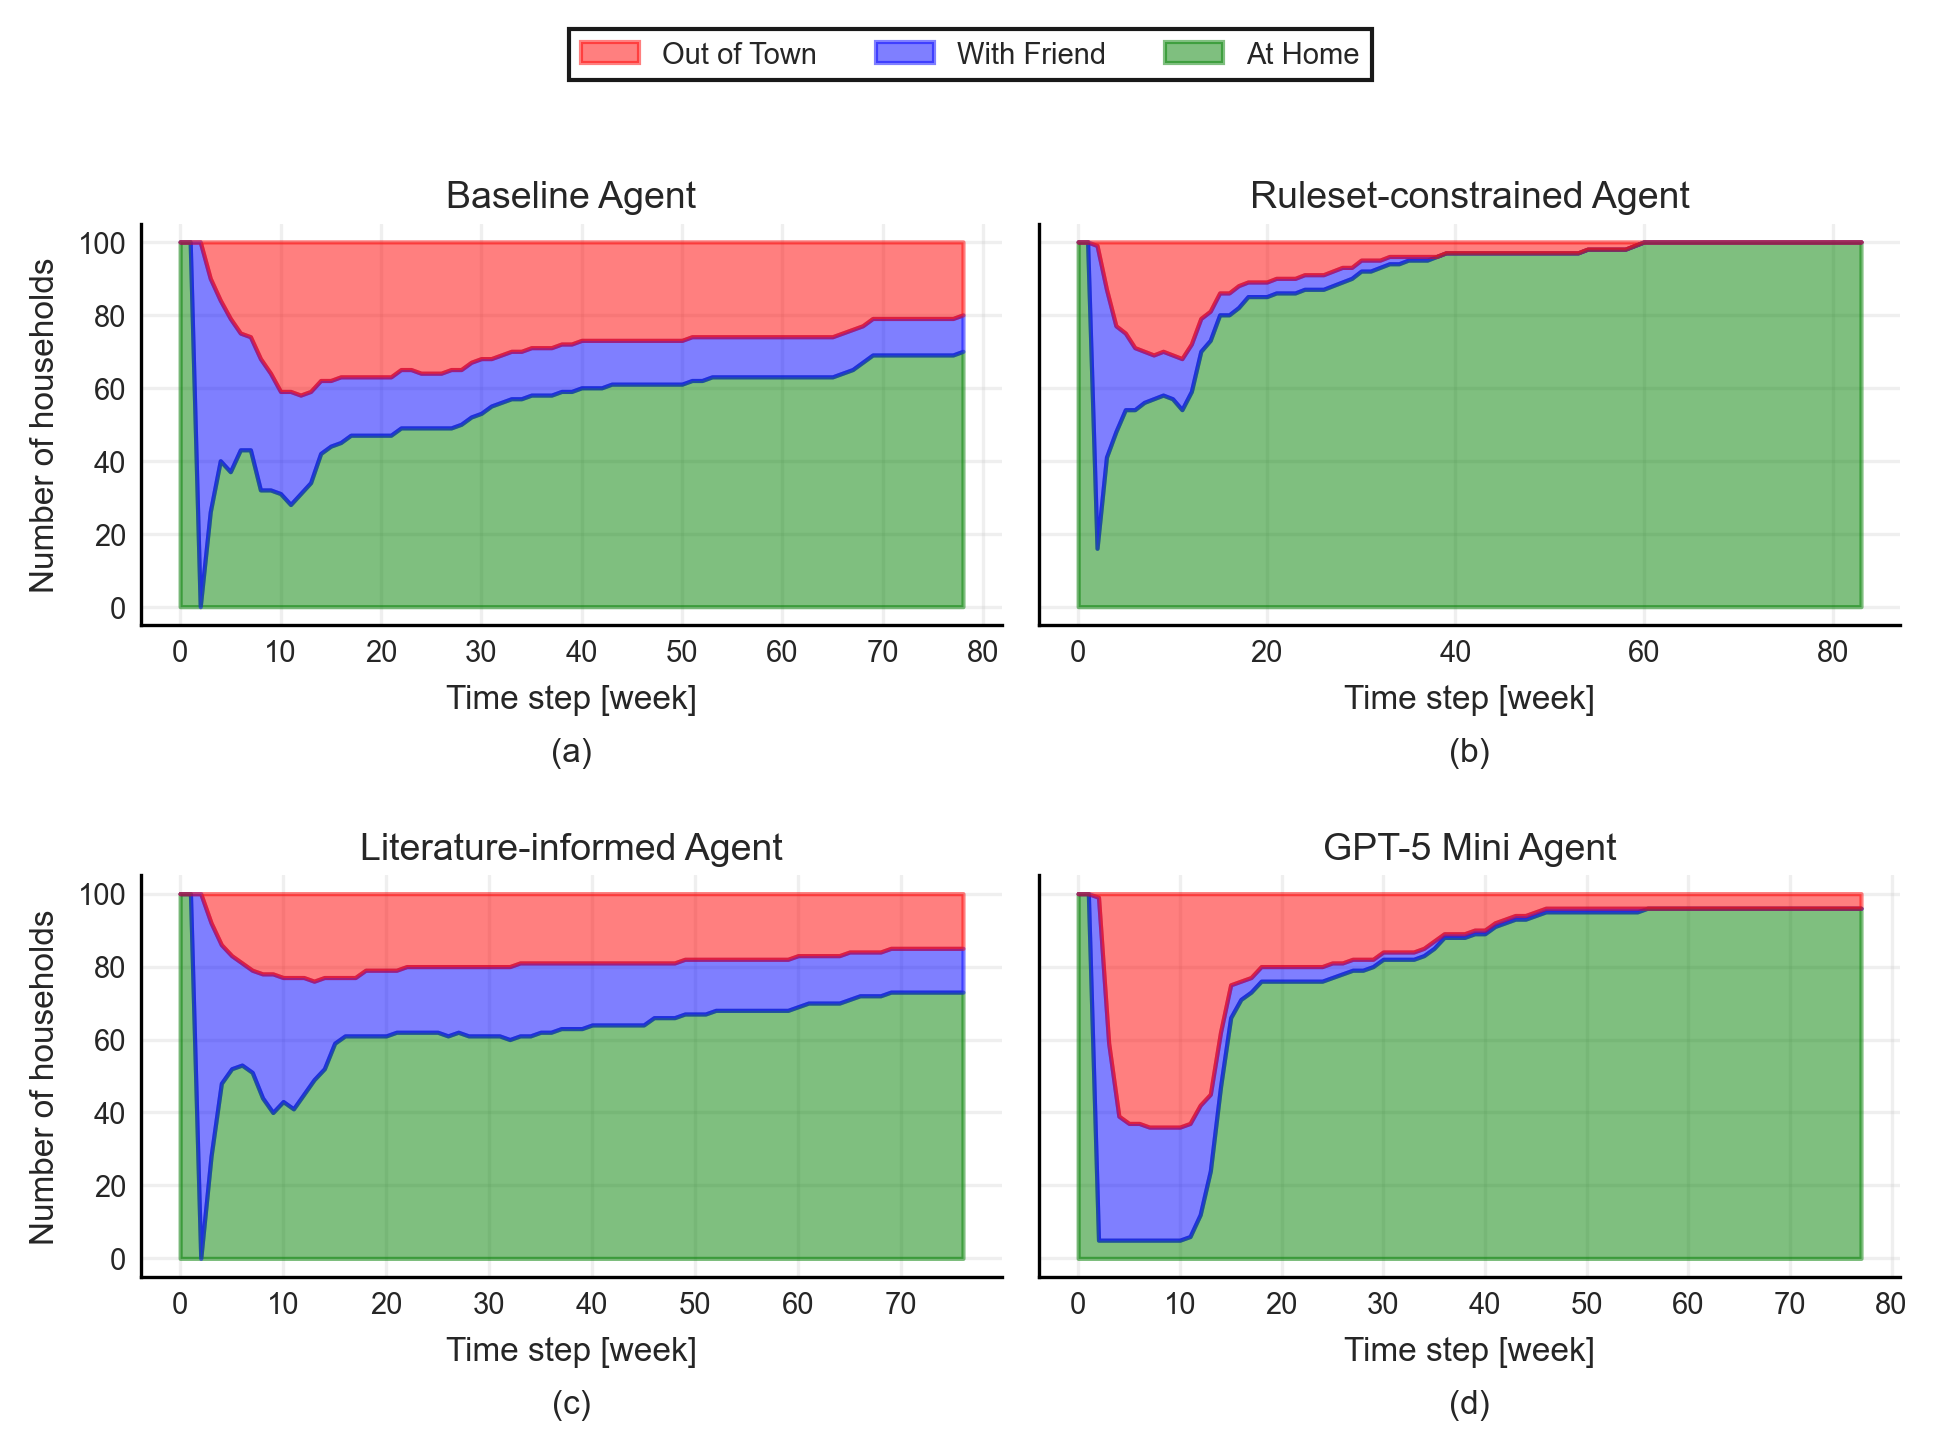
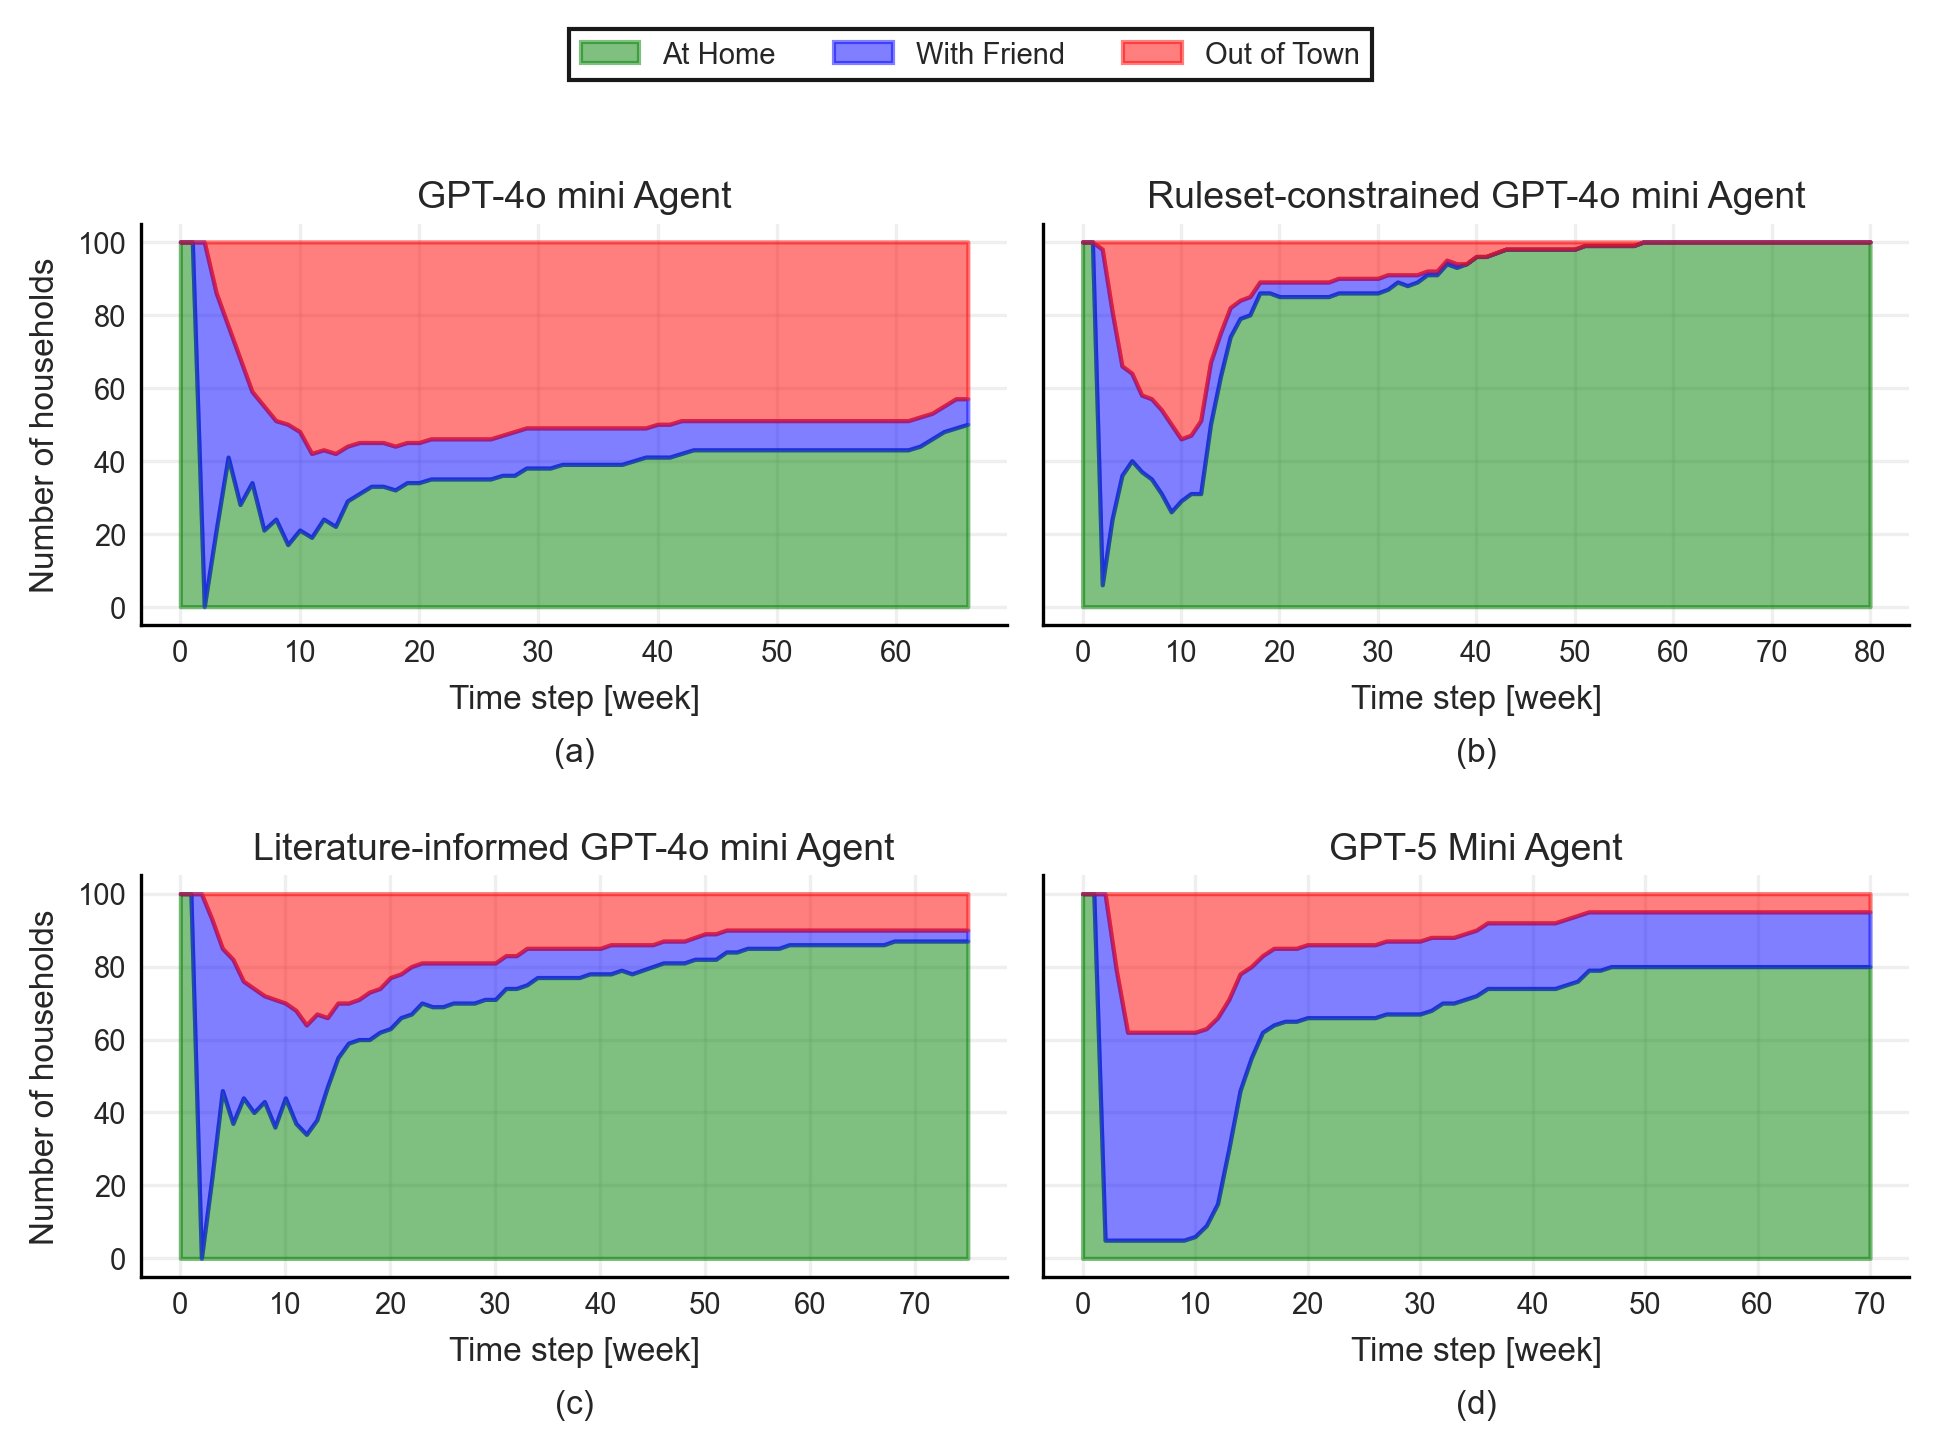
update webpage

diff --git a/docs/html/usage/how_to_cite.html b/docs/html/usage/how_to_cite.html
@@ -179,7 +179,7 @@
           <svg class="theme-icon-when-light"><use href="#svg-sun"></use></svg>
         </button>
       </div>
-      <label class="toc-overlay-icon toc-header-icon no-toc" for="__toc">
+      <label class="toc-overlay-icon toc-header-icon" for="__toc">
         <div class="visually-hidden">Toggle table of contents sidebar</div>
         <i class="icon"><svg><use href="#svg-toc"></use></svg></i>
       </label>
@@ -388,7 +388,7 @@
               <svg class="theme-icon-when-light"><use href="#svg-sun"></use></svg>
             </button>
           </div>
-          <label class="toc-overlay-icon toc-content-icon no-toc" for="__toc">
+          <label class="toc-overlay-icon toc-content-icon" for="__toc">
             <div class="visually-hidden">Toggle table of contents sidebar</div>
             <i class="icon"><svg><use href="#svg-toc"></use></svg></i>
           </label>
@@ -396,9 +396,35 @@
         <article role="main" id="furo-main-content">
           <section id="how-to-cite">
 <h1>How to cite<a class="headerlink" href="#how-to-cite" title="Link to this heading">¶</a></h1>
+<section id="v0-3-0">
+<h2>v0.3.0<a class="headerlink" href="#v0-3-0" title="Link to this heading">¶</a></h2>
+<p>Please cite pyrecodes v0.3.0 as:</p>
+<blockquote>
+<div><p>Blagojević, Nikola, and Stojadinović, Božidar. (2026). pyrecodes: an open-source library for regional recovery simulation and disaster resilience assessment of the built environment (v0.3.0). Zenodo. Developed at the Stanford Urban Resilience Initiative, Stanford University. <a class="reference external" href="https://doi.org/10.5281/zenodo.19375963">https://doi.org/10.5281/zenodo.19375963</a></p>
+</div></blockquote>
+<p>bibtex entry:</p>
+<div class="highlight-tex notranslate"><div class="highlight"><pre><span></span>@software<span class="nb">{</span>blagojevic<span class="nb">_</span>2026<span class="nb">_</span>19375963,
+    author       = <span class="nb">{</span>Blagojević, Nikola and
+                    Stojadinović, Božidar<span class="nb">}</span>,
+    title        = <span class="nb">{</span>pyrecodes: an open-source library for regional
+                    recovery simulation and disaster resilience
+                    assessment of the built environment (v0.3.0)
+                    <span class="nb">}</span>,
+    month        = mar,
+    year         = 2026,
+    publisher    = <span class="nb">{</span>Zenodo<span class="nb">}</span>,
+    note         = <span class="nb">{</span>Developed at the Stanford Urban Resilience Initiative, Stanford University<span class="nb">}</span>,
+    doi          = <span class="nb">{</span>10.5281/zenodo.19375963<span class="nb">}</span>,
+    url          = <span class="nb">{</span>https://doi.org/10.5281/zenodo.19375963<span class="nb">}</span>,
+    <span class="nb">}</span>
+</pre></div>
+</div>
+</section>
+<section id="v0-2-0">
+<h2>v0.2.0<a class="headerlink" href="#v0-2-0" title="Link to this heading">¶</a></h2>
 <p>Please cite pyrecodes v0.2.0 as:</p>
 <blockquote>
-<div><p>Blagojević, Nikola, and Stojadinović, Božidar. (2025). pyrecodes: an open-source library for regional recovery simulation and disaster resilience assessment of the built environment (v0.2.0). Zenodo. <a class="reference external" href="https://doi.org/10.5281/zenodo.14774265">https://doi.org/10.5281/zenodo.14774265</a></p>
+<div><p>Blagojević, Nikola, and Stojadinović, Božidar. (2025). pyrecodes: an open-source library for regional recovery simulation and disaster resilience assessment of the built environment (v0.2.0). Zenodo. Developed at the Chair of Structural Dynamics and Earthquake Engineering, ETH Zurich. <a class="reference external" href="https://doi.org/10.5281/zenodo.14774265">https://doi.org/10.5281/zenodo.14774265</a></p>
 </div></blockquote>
 <p>bibtex entry:</p>
 <div class="highlight-tex notranslate"><div class="highlight"><pre><span></span>@software<span class="nb">{</span>blagojevic<span class="nb">_</span>2025<span class="nb">_</span>14774265,
@@ -411,11 +437,33 @@
     month        = jan,
     year         = 2025,
     publisher    = <span class="nb">{</span>Zenodo<span class="nb">}</span>,
+    note         = <span class="nb">{</span>Developed at the Chair of Structural Dynamics and Earthquake Engineering, ETH Zurich<span class="nb">}</span>,
     doi          = <span class="nb">{</span>10.5281/zenodo.14774265<span class="nb">}</span>,
     url          = <span class="nb">{</span>https://doi.org/10.5281/zenodo.14774265<span class="nb">}</span>,
     <span class="nb">}</span>
 </pre></div>
 </div>
+</section>
+<section id="v0-1-0">
+<h2>v0.1.0<a class="headerlink" href="#v0-1-0" title="Link to this heading">¶</a></h2>
+<p>Please cite pyrecodes v0.1.0 as:</p>
+<blockquote>
+<div><p>Blagojević, Nikola, and Stojadinović, Božidar. (2023). pyrecodes: an open-source library for regional recovery simulation and disaster resilience assessment of the built environment (v0.1.0). Chair of Structural Dynamics and Earthquake Engineering, ETH Zurich. <a class="reference external" href="https://doi.org/10.5905/ethz-1007-700">https://doi.org/10.5905/ethz-1007-700</a></p>
+</div></blockquote>
+<p>bibtex entry:</p>
+<div class="highlight-tex notranslate"><div class="highlight"><pre><span></span>@misc<span class="nb">{</span>pyrecodes,
+    author       = <span class="nb">{</span>Blagojević, Nikola and Stojadinović, Božidar<span class="nb">}</span>,
+    title        = <span class="nb">{{</span>pyrecodes: an open-source library for regional recovery simulation and disaster resilience
+                    assessment of the built environment<span class="nb">}}</span>,
+    year         = 2023,
+    publisher    = <span class="nb">{</span>Chair of Structural Dynamics and Earthquake Engineering, ETH Zurich<span class="nb">}</span>,
+    doi          = <span class="nb">{</span>10.5905/ethz-1007-700<span class="nb">}</span>,
+    url          = <span class="nb">{</span>https://doi.org/10.5905/ethz-1007-700<span class="nb">}</span>,
+    version      = <span class="nb">{</span>v0.1.0<span class="nb">}</span>,
+    <span class="nb">}</span>
+</pre></div>
+</div>
+</section>
 </section>
 
         </article>
@@ -461,8 +509,29 @@
         
       </footer>
     </div>
-    <aside class="toc-drawer no-toc">
+    <aside class="toc-drawer">
       
+      
+      <div class="toc-sticky toc-scroll">
+        <div class="toc-title-container">
+          <span class="toc-title">
+            On this page
+          </span>
+        </div>
+        <div class="toc-tree-container">
+          <div class="toc-tree">
+            <ul>
+<li><a class="reference internal" href="#">How to cite</a><ul>
+<li><a class="reference internal" href="#v0-3-0">v0.3.0</a></li>
+<li><a class="reference internal" href="#v0-2-0">v0.2.0</a></li>
+<li><a class="reference internal" href="#v0-1-0">v0.1.0</a></li>
+</ul>
+</li>
+</ul>
+
+          </div>
+        </div>
+      </div>
       
       
     </aside>

diff --git a/docs/html/usage/documentation/household_docs/household_gpt_docs.html b/docs/html/usage/documentation/household_docs/household_gpt_docs.html
@@ -424,7 +424,7 @@
 
 <dl class="py method">
 <dt class="sig sig-object py" id="pyrecodes.household.household_gpt.HouseholdGPT.async_set_parameters">
-<em class="property"><span class="pre">async</span><span class="w"> </span></em><span class="sig-name descname"><span class="pre">async_set_parameters</span></span><span class="sig-paren">(</span><em class="sig-param"><span class="n"><span class="pre">parameters</span></span><span class="p"><span class="pre">:</span></span><span class="w"> </span><span class="n"><span class="pre">dict</span></span></em>, <em class="sig-param"><span class="n"><span class="pre">api_key_filename</span></span><span class="p"><span class="pre">:</span></span><span class="w"> </span><span class="n"><span class="pre">str</span></span><span class="w"> </span><span class="o"><span class="pre">=</span></span><span class="w"> </span><span class="default_value"><span class="pre">'./openai_api_key.json'</span></span></em>, <em class="sig-param"><span class="n"><span class="pre">temperature</span></span><span class="p"><span class="pre">:</span></span><span class="w"> </span><span class="n"><span class="pre">float</span></span><span class="w"> </span><span class="o"><span class="pre">=</span></span><span class="w"> </span><span class="default_value"><span class="pre">1.0</span></span></em>, <em class="sig-param"><span class="n"><span class="pre">llm_model</span></span><span class="p"><span class="pre">:</span></span><span class="w"> </span><span class="n"><span class="pre">str</span></span><span class="w"> </span><span class="o"><span class="pre">=</span></span><span class="w"> </span><span class="default_value"><span class="pre">'GPT'</span></span></em>, <em class="sig-param"><span class="n"><span class="pre">summarize_experience</span></span><span class="p"><span class="pre">:</span></span><span class="w"> </span><span class="n"><span class="pre">bool</span></span><span class="w"> </span><span class="o"><span class="pre">=</span></span><span class="w"> </span><span class="default_value"><span class="pre">False</span></span></em><span class="sig-paren">)</span> <span class="sig-return"><span class="sig-return-icon">&#x2192;</span> <span class="sig-return-typehint"><span class="pre">None</span></span></span><a class="headerlink" href="#pyrecodes.household.household_gpt.HouseholdGPT.async_set_parameters" title="Link to this definition">¶</a></dt>
+<em class="property"><span class="pre">async</span><span class="w"> </span></em><span class="sig-name descname"><span class="pre">async_set_parameters</span></span><span class="sig-paren">(</span><em class="sig-param"><span class="n"><span class="pre">parameters</span></span><span class="p"><span class="pre">:</span></span><span class="w"> </span><span class="n"><span class="pre">dict</span></span></em>, <em class="sig-param"><span class="n"><span class="pre">api_key_filename</span></span><span class="p"><span class="pre">:</span></span><span class="w"> </span><span class="n"><span class="pre">str</span></span><span class="w"> </span><span class="o"><span class="pre">=</span></span><span class="w"> </span><span class="default_value"><span class="pre">'./openai_api_key.json'</span></span></em>, <em class="sig-param"><span class="n"><span class="pre">temperature</span></span><span class="p"><span class="pre">:</span></span><span class="w"> </span><span class="n"><span class="pre">float</span></span><span class="w"> </span><span class="o"><span class="pre">=</span></span><span class="w"> </span><span class="default_value"><span class="pre">1.0</span></span></em>, <em class="sig-param"><span class="n"><span class="pre">llm_model</span></span><span class="p"><span class="pre">:</span></span><span class="w"> </span><span class="n"><span class="pre">str</span></span><span class="w"> </span><span class="o"><span class="pre">=</span></span><span class="w"> </span><span class="default_value"><span class="pre">'GPT'</span></span></em>, <em class="sig-param"><span class="n"><span class="pre">summarize_experience</span></span><span class="p"><span class="pre">:</span></span><span class="w"> </span><span class="n"><span class="pre">bool</span></span><span class="w"> </span><span class="o"><span class="pre">=</span></span><span class="w"> </span><span class="default_value"><span class="pre">True</span></span></em><span class="sig-paren">)</span> <span class="sig-return"><span class="sig-return-icon">&#x2192;</span> <span class="sig-return-typehint"><span class="pre">None</span></span></span><a class="headerlink" href="#pyrecodes.household.household_gpt.HouseholdGPT.async_set_parameters" title="Link to this definition">¶</a></dt>
 <dd></dd></dl>
 
 <dl class="py method">
@@ -519,7 +519,7 @@
 
 <dl class="py method">
 <dt class="sig sig-object py" id="pyrecodes.household.household_gpt.HouseholdGPT.set_parameters">
-<span class="sig-name descname"><span class="pre">set_parameters</span></span><span class="sig-paren">(</span><em class="sig-param"><span class="n"><span class="pre">parameters</span></span><span class="p"><span class="pre">:</span></span><span class="w"> </span><span class="n"><span class="pre">dict</span></span></em>, <em class="sig-param"><span class="n"><span class="pre">api_key_filename</span></span><span class="p"><span class="pre">:</span></span><span class="w"> </span><span class="n"><span class="pre">str</span></span><span class="w"> </span><span class="o"><span class="pre">=</span></span><span class="w"> </span><span class="default_value"><span class="pre">'./openai_api_key.json'</span></span></em>, <em class="sig-param"><span class="n"><span class="pre">temperature</span></span><span class="p"><span class="pre">:</span></span><span class="w"> </span><span class="n"><span class="pre">float</span></span><span class="w"> </span><span class="o"><span class="pre">=</span></span><span class="w"> </span><span class="default_value"><span class="pre">1.0</span></span></em>, <em class="sig-param"><span class="n"><span class="pre">llm_model</span></span><span class="p"><span class="pre">:</span></span><span class="w"> </span><span class="n"><span class="pre">str</span></span><span class="w"> </span><span class="o"><span class="pre">=</span></span><span class="w"> </span><span class="default_value"><span class="pre">'GPT'</span></span></em>, <em class="sig-param"><span class="n"><span class="pre">summarize_experience</span></span><span class="p"><span class="pre">:</span></span><span class="w"> </span><span class="n"><span class="pre">bool</span></span><span class="w"> </span><span class="o"><span class="pre">=</span></span><span class="w"> </span><span class="default_value"><span class="pre">False</span></span></em><span class="sig-paren">)</span> <span class="sig-return"><span class="sig-return-icon">&#x2192;</span> <span class="sig-return-typehint"><span class="pre">None</span></span></span><a class="headerlink" href="#pyrecodes.household.household_gpt.HouseholdGPT.set_parameters" title="Link to this definition">¶</a></dt>
+<span class="sig-name descname"><span class="pre">set_parameters</span></span><span class="sig-paren">(</span><em class="sig-param"><span class="n"><span class="pre">parameters</span></span><span class="p"><span class="pre">:</span></span><span class="w"> </span><span class="n"><span class="pre">dict</span></span></em>, <em class="sig-param"><span class="n"><span class="pre">api_key_filename</span></span><span class="p"><span class="pre">:</span></span><span class="w"> </span><span class="n"><span class="pre">str</span></span><span class="w"> </span><span class="o"><span class="pre">=</span></span><span class="w"> </span><span class="default_value"><span class="pre">'./openai_api_key.json'</span></span></em>, <em class="sig-param"><span class="n"><span class="pre">temperature</span></span><span class="p"><span class="pre">:</span></span><span class="w"> </span><span class="n"><span class="pre">float</span></span><span class="w"> </span><span class="o"><span class="pre">=</span></span><span class="w"> </span><span class="default_value"><span class="pre">1.0</span></span></em>, <em class="sig-param"><span class="n"><span class="pre">llm_model</span></span><span class="p"><span class="pre">:</span></span><span class="w"> </span><span class="n"><span class="pre">str</span></span><span class="w"> </span><span class="o"><span class="pre">=</span></span><span class="w"> </span><span class="default_value"><span class="pre">'GPT'</span></span></em>, <em class="sig-param"><span class="n"><span class="pre">summarize_experience</span></span><span class="p"><span class="pre">:</span></span><span class="w"> </span><span class="n"><span class="pre">bool</span></span><span class="w"> </span><span class="o"><span class="pre">=</span></span><span class="w"> </span><span class="default_value"><span class="pre">True</span></span></em><span class="sig-paren">)</span> <span class="sig-return"><span class="sig-return-icon">&#x2192;</span> <span class="sig-return-typehint"><span class="pre">None</span></span></span><a class="headerlink" href="#pyrecodes.household.household_gpt.HouseholdGPT.set_parameters" title="Link to this definition">¶</a></dt>
 <dd></dd></dl>
 
 <dl class="py method">

diff --git a/docs/html/usage/documentation/component_configurator_docs/r2d_repair_configurator_docs.html b/docs/html/usage/documentation/component_configurator_docs/r2d_repair_configurator_docs.html
@@ -496,7 +496,7 @@
 
 <dl class="py method">
 <dt class="sig sig-object py" id="pyrecodes.component_configurator.r2d_repair_configurator.R2DRepairConfigurator.set_repair_time">
-<span class="sig-name descname"><span class="pre">set_repair_time</span></span><span class="sig-paren">(</span><em class="sig-param"><span class="n"><span class="pre">component_data</span></span><span class="p"><span class="pre">:</span></span><span class="w"> </span><span class="n"><span class="pre">dict</span></span></em>, <em class="sig-param"><span class="n"><span class="pre">use_R2D</span></span><span class="o"><span class="pre">=</span></span><span class="default_value"><span class="pre">False</span></span></em><span class="sig-paren">)</span> <span class="sig-return"><span class="sig-return-icon">&#x2192;</span> <span class="sig-return-typehint"><span class="pre">None</span></span></span><a class="headerlink" href="#pyrecodes.component_configurator.r2d_repair_configurator.R2DRepairConfigurator.set_repair_time" title="Link to this definition">¶</a></dt>
+<span class="sig-name descname"><span class="pre">set_repair_time</span></span><span class="sig-paren">(</span><em class="sig-param"><span class="n"><span class="pre">component_data</span></span><span class="p"><span class="pre">:</span></span><span class="w"> </span><span class="n"><span class="pre">dict</span></span></em>, <em class="sig-param"><span class="n"><span class="pre">use_R2D</span></span><span class="p"><span class="pre">:</span></span><span class="w"> </span><span class="n"><span class="pre">bool</span></span><span class="w"> </span><span class="o"><span class="pre">=</span></span><span class="w"> </span><span class="default_value"><span class="pre">False</span></span></em><span class="sig-paren">)</span> <span class="sig-return"><span class="sig-return-icon">&#x2192;</span> <span class="sig-return-typehint"><span class="pre">None</span></span></span><a class="headerlink" href="#pyrecodes.component_configurator.r2d_repair_configurator.R2DRepairConfigurator.set_repair_time" title="Link to this definition">¶</a></dt>
 <dd><div class="line-block">
 <div class="line">Method sets the repair duration of the component as deterministic by default. </div>
 <div class="line">It is assumed that the uncertainty is captured in the R2D output files.</div>